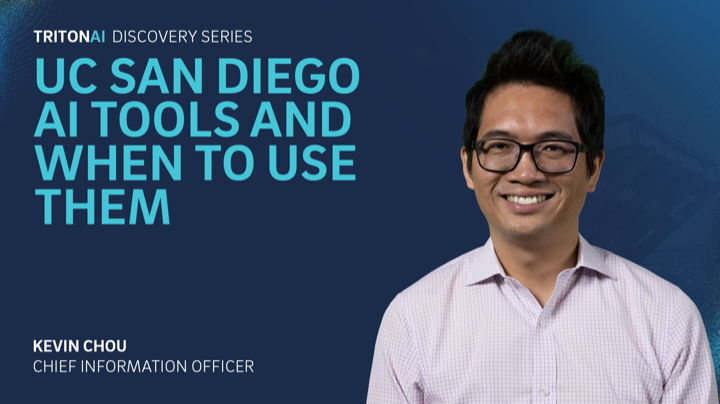
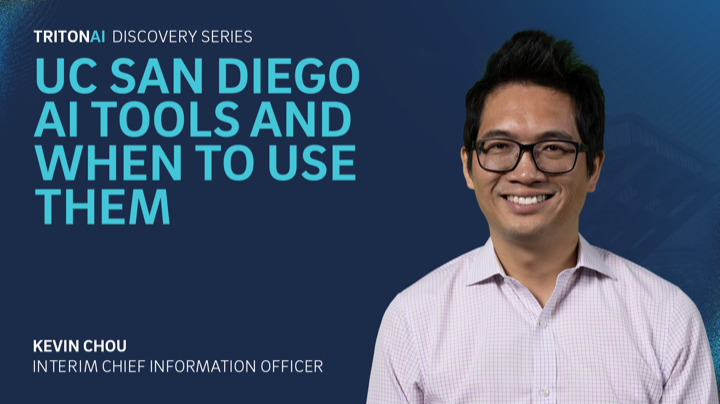
Update Kevin Chou's title to Interim Chief Information Officer
Changes the presenter title on the AI tools Discovery Series video and
the title line baked into his presenter card image.

Changed region(s): [[0.0306, 0.8911, 0.4583, 0.9208]]

diff --git a/content/training-videos/ai-tools-at-uc-san-diego.md b/content/training-videos/ai-tools-at-uc-san-diego.md
@@ -63,6 +63,6 @@ durationMinutes: null
 discoverySeries: true
 presenters:
   - name: Kevin Chou
-    title: Chief Information Officer
+    title: Interim Chief Information Officer
     cardImage: /_images/training-resources/videos/kevin-chou-presenter-card.png
 ---
